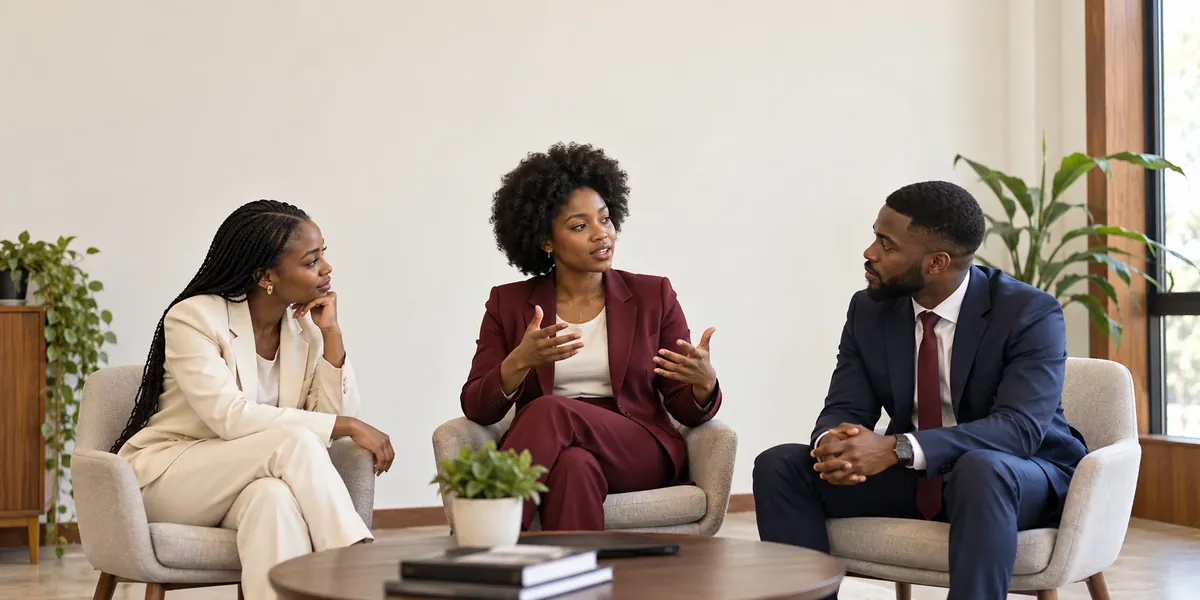
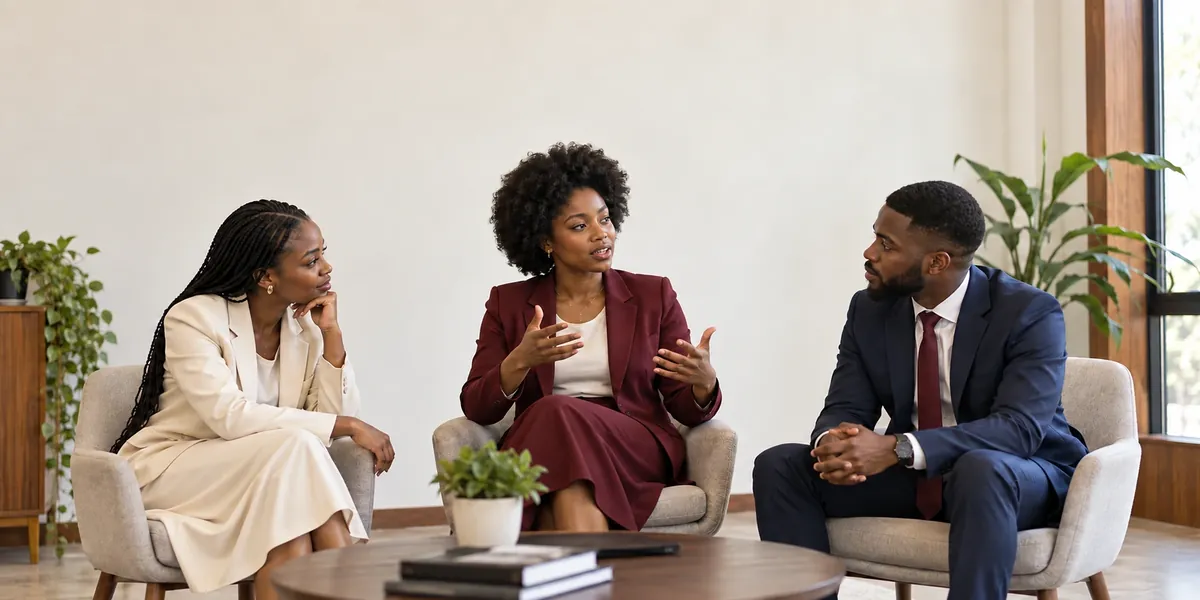
Dress the women in five supporting photos in skirts
The owner asked for the women in the site's photographs to wear skirts
instead of trousers, with nothing added on their heads. The five photos
that showed trousers (Vision & Mission, the homepage About preview,
Journey stage 06, and the Programme boot camp and mentorship cards) were
edited with Codex's image tool rather than regenerated, so the people,
poses, framing and light stay as reviewed. The other ten show women only
from the waist up.

- design/imagery/2026-10-01/: the edited masters, their prompts and
  records (each naming the master it edited) and a before/after sheet.
  The masters they replace stay in their own batches.
- scripts/imagery-assets.py builds the five from the edits under the
  same names and sizes, so no code, alt text, focus or layout changes.
  All fifteen site files rebuild byte-identical.
- IMAGERY §7 records the review and the browser check; §1, 04, AGENTS
  and D-57 make skirts or dresses the rule for new photos; task 10.7.

diff --git a/scripts/imagery-assets.py b/scripts/imagery-assets.py
@@ -18,27 +18,28 @@ from PIL import Image
 ROOT = Path(__file__).resolve().parent.parent
 FIRST = ROOT / 'design' / 'imagery' / '2026-09-29' / 'masters'  # the original nine
 SECOND = ROOT / 'design' / 'imagery' / '2026-09-30' / 'masters'  # homepage previews and /programme cards
+THIRD = ROOT / 'design' / 'imagery' / '2026-10-01' / 'masters'  # five of the above, edited: skirts instead of trousers
 ASSETS = ROOT / 'src' / 'assets'
 QUALITY = 80
 
 # master -> (output under src/assets, longest edge in px)
 IMAGES = {
-    FIRST / 'vision.webp': ('landing/vision-portrait.webp', 1200),
+    THIRD / 'vision-skirts.webp': ('landing/vision-portrait.webp', 1200),
     FIRST / 'doctrine.webp': ('landing/doctrine-study-group.webp', 1200),
     FIRST / 'journey-01-apply.webp': ('landing/journey-01-apply.webp', 1200),
     FIRST / 'journey-02-virtual-training.webp': ('landing/journey-02-virtual-training.webp', 1200),
     FIRST / 'journey-03-merit-selection.webp': ('landing/journey-03-merit-selection.webp', 1200),
     FIRST / 'journey-04-boot-camp.webp': ('landing/journey-04-boot-camp.webp', 1200),
     FIRST / 'journey-05-mentorship.webp': ('landing/journey-05-mentorship.webp', 1200),
-    FIRST / 'journey-06-community.webp': ('landing/journey-06-community.webp', 1200),
+    THIRD / 'journey-community-skirts.webp': ('landing/journey-06-community.webp', 1200),
     # A circular cut-out with transparent corners, as the success page expects (up to 443 px wide).
     FIRST / 'success-portrait.webp': ('success/student-portrait.webp', 872),
-    SECOND / 'home-about.webp': ('landing/home-about.webp', 1200),
+    THIRD / 'home-about-skirts.webp': ('landing/home-about.webp', 1200),
     SECOND / 'home-programme.webp': ('landing/home-programme.webp', 1200),
     SECOND / 'programme-virtual.webp': ('landing/programme-virtual.webp', 1200),
     SECOND / 'programme-merit.webp': ('landing/programme-merit.webp', 1200),
-    SECOND / 'programme-bootcamp.webp': ('landing/programme-bootcamp.webp', 1200),
-    SECOND / 'programme-community.webp': ('landing/programme-community.webp', 1200),
+    THIRD / 'programme-bootcamp-skirts.webp': ('landing/programme-bootcamp.webp', 1200),
+    THIRD / 'programme-community-skirts.webp': ('landing/programme-community.webp', 1200),
 }
 PROTECTED = ('landing/hero-', 'landing/blueprint-', 'brand/')
 

diff --git a/docs/IMAGERY.md b/docs/IMAGERY.md
@@ -1,7 +1,7 @@
 # Imagery: policy, records and sources
 
-**Last updated:** 2026-09-30
-**Status:** The supporting photographs are **AI-generated** (the owner's decision of 2026-09-29, which replaces the earlier rule that only permission-cleared RCCG NYAYA photos could be used). Fifteen are in the site, one per placement: the original nine, and six added on 2026-09-30 so that no photo appears in two places (§6). The homepage hero, the brand artwork and the Biblical Blueprint paintings are unchanged.
+**Last updated:** 2026-10-01
+**Status:** The supporting photographs are **AI-generated** (the owner's decision of 2026-09-29, which replaces the earlier rule that only permission-cleared RCCG NYAYA photos could be used). Fifteen are in the site, one per placement: the original nine, and six added on 2026-09-30 so that no photo appears in two places (§6). On 2026-10-01 five of them were edited so that the women wear skirts instead of trousers (§7). The homepage hero, the brand artwork and the Biblical Blueprint paintings are unchanged.
 
 Related: [04 §7 Imagery](04-UI-UX-Design-Brief.md#7-imagery) · [06 Phase 10](06-Implementation-Plan.md#phase-10-supporting-imagery-done-2026-09-29) · [`scripts/imagery-assets.py`](../scripts/imagery-assets.py) · [`design/imagery/2026-09-29/prompts.json`](../design/imagery/2026-09-29/prompts.json)
 
@@ -15,6 +15,7 @@ Related: [04 §7 Imagery](04-UI-UX-Design-Brief.md#7-imagery) · [06 Phase 10](0
 - **Supporting photographs may be AI-generated**, photorealistic images:
   - fictional, clearly adult Nigerian young adults (about 18–30), with the natural diversity of Nigerian faces and a range of brown and dark skin tones, never one uniform look; no real or recognisable people and no public figures;
   - modest, well-fitted professional or smart-casual clothing (opaque fabrics, comfortable coverage), varied rather than uniforms; brand colours as accents, never as a skin grade;
+  - women in skirts or dresses that cover the knee, not trousers (the owner's request of 2026-10-01: §7);
   - contemporary Nigerian learning, professional and community settings; soft believable light; visible skin texture;
   - no readable text, logos, signage, invented RCCG branding, certificates or grades; screens face away.
 - **Never present a generated image as real.** Alt text describes the visible scene only. No captions such as "Our previous cohort" or "RCCG participants at the boot camp".
@@ -27,27 +28,27 @@ Related: [04 §7 Imagery](04-UI-UX-Design-Brief.md#7-imagery) · [06 Phase 10](0
 
 | File (`src/assets/…`) | Used on | Shows | Source |
 |---|---|---|---|
-| `landing/vision-portrait.webp` | `/about` Vision & Mission | Three young professionals planning around a laptop and notebook | AI-generated, 2026-09-29 |
+| `landing/vision-portrait.webp` | `/about` Vision & Mission | Three young professionals planning around a laptop and notebook | AI-generated, 2026-09-29; skirts edit, 2026-10-01 (§7) |
 | `landing/doctrine-study-group.webp` | `/programme` Doctrine | Three young adults discussing open books in a library | AI-generated, 2026-09-29 |
 | `landing/journey-01-apply.webp` | `/journey` stage 01 | A young woman at a laptop at home (screen away) | AI-generated, 2026-09-29 |
 | `landing/journey-02-virtual-training.webp` | `/journey` stage 02 | A young man in headphones taking notes during an online session | AI-generated, 2026-09-29 |
 | `landing/journey-03-merit-selection.webp` | `/journey` stage 03 | Two young professionals writing in notebooks | AI-generated, 2026-09-29 |
 | `landing/journey-04-boot-camp.webp` | `/journey` stage 04 | Five young adults in a planning exercise at a workshop table | AI-generated, 2026-09-29 |
 | `landing/journey-05-mentorship.webp` | `/journey` stage 05 | A mentor with two young professionals taking notes | AI-generated, 2026-09-29 |
-| `landing/journey-06-community.webp` | `/journey` stage 06 | Young professionals talking in small groups in a courtyard | AI-generated, 2026-09-29 |
+| `landing/journey-06-community.webp` | `/journey` stage 06 | Young professionals talking in small groups in a courtyard | AI-generated, 2026-09-29; skirts edit, 2026-10-01 (§7) |
 | `success/student-portrait.webp` | `/apply/success` | A smiling young man in a suit holding a laptop (circular cut-out) | AI-generated, 2026-09-29 |
-| `landing/home-about.webp` | Homepage About preview (from 1280 px) | Two young professionals talking as they walk through a courtyard | AI-generated, 2026-09-30 |
+| `landing/home-about.webp` | Homepage About preview (from 1280 px) | Two young professionals talking as they walk through a courtyard | AI-generated, 2026-09-30; skirts edit, 2026-10-01 (§7) |
 | `landing/home-programme.webp` | Homepage Programme preview (from 1280 px) | A young woman reading at a sunlit library desk | AI-generated, 2026-09-30 |
 | `landing/programme-virtual.webp` | `/programme` Virtual training card | A young woman in headphones at a laptop at her home desk | AI-generated, 2026-09-30 |
 | `landing/programme-merit.webp` | `/programme` Merit-based selection card | A young man with glasses writing in a notebook | AI-generated, 2026-09-30 |
-| `landing/programme-bootcamp.webp` | `/programme` Physical boot camp card | Three young professionals in a training-room discussion | AI-generated, 2026-09-30 |
-| `landing/programme-community.webp` | `/programme` Mentorship and community card | A mentor talking with two young professionals on a terrace | AI-generated, 2026-09-30 |
+| `landing/programme-bootcamp.webp` | `/programme` Physical boot camp card | Three young professionals in a training-room discussion | AI-generated, 2026-09-30; skirts edit, 2026-10-01 (§7) |
+| `landing/programme-community.webp` | `/programme` Mentorship and community card | A mentor talking with two young professionals on a terrace | AI-generated, 2026-09-30; skirts edit, 2026-10-01 (§7) |
 
 They replaced the Figma Make prototype's photos, which were generic stock-style or AI images with problems of their own: invented "Redemption City" and summit banners, invented name tags on a video call, a fake certificate and scorecard, and an Apple logo.
 
 ## 3. Workflow, crops and optimisation
 
-- **Masters:** `design/imagery/<date>/masters/*.webp` (2026-09-29: the original nine; 2026-09-30: the homepage previews and `/programme` cards), full resolution, WebP quality 92, committed. Each batch's `prompts.json` sits beside them. The generator's original PNGs are in `design/imagery/<date>/originals/` (gitignored) and in the tool's own output folder.
+- **Masters:** `design/imagery/<date>/masters/*.webp` (2026-09-29: the original nine; 2026-09-30: the homepage previews and `/programme` cards; 2026-10-01: five of those edited so that the women wear skirts, §7), full resolution, WebP quality 92, committed. Each batch's `prompts.json` sits beside them. The generator's original PNGs are in `design/imagery/<date>/originals/` (gitignored) and in the tool's own output folder.
 - **Site files:** `python3 scripts/imagery-assets.py` resizes each master to at most 1200 px on the long edge (the success portrait to 872 px, keeping its transparent circle) and writes WebP quality 80, method 6, under the existing file names, so no imports change.
 - **Crops happen in the browser** (`object-fit: cover`), with a focus (`object-position`) per slot so faces survive every crop:
 
@@ -77,8 +78,8 @@ All nine were generated on 2026-09-29 with the same tool, supplied by the owner 
 | Status | **AI-generated.** Fictional people; not RCCG participants, applicants or events |
 | Tool / model | Codex built-in image generator (`image_gen`); the tool does not name the model |
 | Created | 2026-09-29 |
-| Master | `design/imagery/2026-09-29/masters/vision.webp` (original: `exec-e2b18210-6f1e-4a39-9381-731863d8cec1.png`) |
-| Crop and optimisation | Focus `object-position: 50% 15%`. Master 1122×1402 (4:5, 157 KB). Site file 960×1200, 61 KB. Displayed as tall crops on phones and on desktop, and wide on tablets (up to 1.77:1): the focus keeps all three heads with some headroom. |
+| Master | `design/imagery/2026-10-01/masters/vision-skirts.webp`: the skirts edit (§7) of `design/imagery/2026-09-29/masters/vision.webp` (original: `exec-e2b18210-6f1e-4a39-9381-731863d8cec1.png`) |
+| Crop and optimisation | Focus `object-position: 50% 15%`. Master 1122×1402 (4:5; the edit 146 KB). Site file 960×1200, 60 KB. Displayed as tall crops on phones and on desktop, and wide on tablets (up to 1.77:1): the focus keeps all three heads with some headroom. |
 
 **Prompt:** not recorded by the generating tool (`prompts.json` has none for this image). The scene is described by the alt text above.
 
@@ -209,8 +210,8 @@ Landscape 3:2 photograph. A Nigerian female mentor aged around 45 in a modest mu
 | Status | **AI-generated.** Fictional people; not RCCG participants, applicants or events |
 | Tool / model | Codex built-in image generator (`image_gen`); the tool does not name the model |
 | Created | 2026-09-29 |
-| Master | `design/imagery/2026-09-29/masters/journey-06-community.webp` (original: `exec-f53b2171-0340-4178-9b6b-eba59bba6f4a.png`) |
-| Crop and optimisation | Focus `object-position: 50% 10%`. Master 1536×1024 (3:2, 234 KB). Site file 1200×800, 86 KB. |
+| Master | `design/imagery/2026-10-01/masters/journey-community-skirts.webp`: the skirts edit (§7) of `design/imagery/2026-09-29/masters/journey-06-community.webp` (original: `exec-f53b2171-0340-4178-9b6b-eba59bba6f4a.png`) |
+| Crop and optimisation | Focus `object-position: 50% 10%`. Master 1536×1024 (3:2; the edit 222 KB). Site file 1200×800, 84 KB. |
 
 <details><summary>Generation prompt (as recorded)</summary>
 
@@ -266,9 +267,31 @@ Six additional fictional Nigerian professional scenes were generated with the bu
 | programme-bootcamp.webp | Programme physical boot camp | Three young professionals seated together in a training-room discussion | 50% 30% |
 | programme-community.webp | Programme mentorship/community | A mentor talking with two young professionals on a garden terrace | 50% 30% |
 
+Three of them (`home-about`, `programme-bootcamp`, `programme-community`) were later edited so that the women wear skirts (§7).
+
 Existing Journey photos now appear only on Journey. Vision and Doctrine photos appear only on their dedicated pages. The existing AI disclosures continue to cover all placements. A regression check verifies that the 15 supporting-photo references are unique.
 
 **Review and browser check (2026-09-30):** all six passed the §1 review (natural hands and faces, modest varied tailoring, no readable text, logos or certificates; locs, twists, glasses and an older mentor widen the variety). In headless Chrome on a local production build at 320, 390, 600, 639, 700, 767, 768, 1280, 1440 and 1920 px, every photo appears on exactly one page, loads at full opacity, keeps every face in view and causes no overflow or layout shift. The `/programme` focus values were raised (22 to 30%) so heads keep their headroom in the widest card crops (about 3.6:1) and the boot camp badge clears the heads; at those widths the writing hands are trimmed instead. The boot camp photo is a calm seated discussion, a looser fit for a physical camp than the brief's "structured leadership workshop": a candidate for regeneration.
+
+## 7. Skirts instead of trousers (2026-10-01)
+
+The owner asked for the women in the supporting photographs to wear skirts instead of trousers, then revised the request so that nothing is added on their heads (no scarves, berets, fascinators or hats). Five photographs showed women in trousers. They were edited rather than regenerated, so the people, faces, poses, framing and light are the ones already reviewed in §5 and §6:
+
+| Site file | Placement | Change |
+|---|---|---|
+| `landing/vision-portrait.webp` | `/about` Vision & Mission | Cream trousers to a cream A-line skirt (left); dark trousers to a dark skirt (right) |
+| `landing/home-about.webp` | Homepage About preview | Burgundy trousers to a burgundy A-line midi skirt |
+| `landing/journey-06-community.webp` | `/journey` stage 06 | Navy and black trousers to navy and black midi skirts; the cream dress unchanged |
+| `landing/programme-bootcamp.webp` | `/programme` Physical boot camp card | Cream and burgundy trousers to cream and burgundy midi skirts (both women seated) |
+| `landing/programme-community.webp` | `/programme` Mentorship and community card | Navy and burgundy trousers to long navy and burgundy skirts |
+
+The other ten photographs show women only from the waist up, at desks and tables, so they are unchanged, as is the hero.
+
+- **Tool:** Codex's built-in image generator (`image_gen`; it doesn't name the model), as in §4 and §6. Each master was edited with an identity-preserving prompt: keep the faces, hairstyles, hands, poses, framing, background and light, leave the men's clothes alone, and turn only the women's trousers into opaque, modest midi or ankle-length skirts without slits that cover the knees even when seated. Generated late on 2026-09-30 (Lagos time), adopted on 2026-10-01.
+- **Records:** [`design/imagery/2026-10-01/prompts.json`](../design/imagery/2026-10-01/prompts.json) holds each prompt, the master it edited (`editOf`), the new master and the generator's original PNG (in the gitignored `originals/`). The edited masters are in `design/imagery/2026-10-01/masters/`. The masters they replace stay in their own batches, so pointing `scripts/imagery-assets.py` back at them undoes an edit. [`before-after.jpg`](../design/imagery/2026-10-01/before-after.jpg) shows each pair.
+- **Review (2026-10-01):** each edit was compared with its original at full size and pixel by pixel. The change is confined to the women's clothing below the waist. Elsewhere the pixels differ only by compression noise: in the top 45% of each frame, where the faces are, by 1.5 to 4.4 levels out of 255 on average. No headwear, text or logos were added. The skirts are opaque, without slits, and drape naturally over the chairs and in the walking pose. In three photos they run to the bottom of the frame (Vision, the About preview, Mentorship and community). In the other two they're midi length: the knees stay covered, and the lower legs show below the hem (the seated boot camp pair and the standing Journey group).
+- **Site files:** `scripts/imagery-assets.py` builds the five from the edited masters under their existing names and sizes, so imports, alt text (the scenes are unchanged), focus and layout stay as they were. Rebuilding all fifteen reproduces the committed files byte for byte. The footer's "About our images" note still holds.
+- **Browser check (2026-10-01),** on the local development server: at 1440 px, the `/about` Vision photo, the homepage About preview, the `/journey` stage 06 card and both `/programme` cards; at 390 px, `/about` and the `/programme` cards. Each edited photo loads in its slot with the same crop as before, faces keep their headroom, the boot camp badge clears the heads, and there's no horizontal overflow.
 
 ---
 

diff --git a/docs/06-Implementation-Plan.md b/docs/06-Implementation-Plan.md
@@ -25,7 +25,7 @@ Related: [01-PRD](01-PRD.md) · [02-TRD](02-TRD.md) · [03-App-Flow](03-App-Flow
 | Brand | ✅ Official lockup in every header, menu, footer and the admin area; brand palette; favicons, app icons and social card from the brand mark ([04 §2](04-UI-UX-Design-Brief.md#brand-identity)) |
 | Parish directory | ✅ Import command (16.1, dry-run tested on the RCCG list), parish search and application links (16.2), the parish question in the form (16.3, off until switched on), admin screens: Parish review, Parish directory, Reports, parish filters and panels (16.4–16.6) · ✅ the RCCG directory API as the only source (16.8, D-53): a synchronised copy of its releases, freshness checks at submission, the handover from the spreadsheet; tested against a fake of the contract · ✅ checked live read-only (full sync of release 2026.1: 50,081 parishes) · ⏳ the production key on the server · ✅ production key set and first sync done on the Droplet (release 2026.1, 50,081 parishes) · ⏳ look-alike choice (16.10, D-55) before switching the question on · ~~rollout of the spreadsheet (16.7)~~, superseded |
 | Admin interface | ✅ shadcn/ui primitives adapted to the brand under the account/admin kit; card-first **Reports and analytics** (six reports, shared filters, Recharts charts, drill-down, comparison table), kept out of public bundles (Phase 17) |
-| Photography | ✅ AI-generated supporting photographs: fifteen, one per placement, reviewed, recorded and disclosed ([IMAGERY.md](IMAGERY.md)); hero, brand artwork and Blueprint paintings unchanged |
+| Photography | ✅ AI-generated supporting photographs: fifteen, one per placement, reviewed, recorded and disclosed ([IMAGERY.md](IMAGERY.md)) · ✅ five edited so that the women wear skirts (10.7, D-57); hero, brand artwork and Blueprint paintings unchanged |
 
 ## Phases
 
@@ -161,6 +161,7 @@ First a search for authentic NYAYA photos (2026-09-26), which stalled on permiss
 | 10.4 | Written permission from NYAYA / RISE | Superseded by D-27; still an option (C13) |
 | 10.5 | AI-generated supporting photographs | Done (2026-09-29): nine photorealistic images generated by the owner with Codex's image tool (`design/imagery/2026-09-29/prompts.json`), each reviewed (all passed), masters committed, site files built by `scripts/imagery-assets.py` (WebP q80, at most 1200 px, same file names), a crop focus per slot, new alt text, and a disclosure in the footer and on the success page. Hero, brand artwork and Blueprint paintings unchanged ([IMAGERY.md](IMAGERY.md)) |
 | 10.6 | Verification | Done: every photo checked in its containers at 320, 390, 768, 1280, 1440 and 1920 px in headless Chrome, with normal and reduced motion: all load at full opacity, faces stay in every crop, no overflow, no layout shift on the marketing pages. The homepage hero is pixel-identical to `main` at 390/768/1440/1920 px. `pnpm check`. The success page's small shift (0.013 at 768 px) comes from its API-driven cards, not the images (0 with the API unavailable, as on the live site). **Not yet:** real devices |
+| 10.7 | Skirts instead of trousers in five photos (the owner's request, D-57) | Done (2026-10-01): the five photos that showed women in trousers (`vision-portrait`, `home-about`, `journey-06-community`, `programme-bootcamp`, `programme-community`) edited with Codex's image tool, keeping the people, poses and framing, with no headwear added. Edited masters and prompts in `design/imagery/2026-10-01/`; the masters they replace stay in their batches. `scripts/imagery-assets.py` builds the same file names and sizes, so no code changed. Compared with the originals (the change is confined to the clothing) and checked in the browser at 1440 and 390 px ([IMAGERY §7](IMAGERY.md#7-skirts-instead-of-trousers-2026-10-01)) |
 
 **2026-09-30 refinement:** Removed six cross-page photo reuses with six newly generated dedicated assets (two homepage previews and four Programme cards). Each supporting editorial placement now has a unique image. Generation records: `design/imagery/2026-09-30/prompts.json`; policy and placements: IMAGERY §6. Hero unchanged. Validation: `pnpm check`; all 15 supporting image files have distinct SHA-256 hashes, and `imagery.test.ts` checks that no placement shares a photo and that the card photos' alt text claims no real participants or events. Browser check (headless Chrome, local production build, 320–1920 px plus 600/639/700/767 px where the `/programme` cards are widest): each photo appears on exactly one page, loads fully, keeps every face in view, with no overflow or layout shift. The `/programme` focus values were raised to 22–30% for headroom in those crops and to keep the boot camp badge clear of heads. `PHASE_ART` moved to `src/components/landing/programmePhotos.ts` (a page module shouldn't export data), and `scripts/imagery-assets.py` builds both batches from one table (outputs byte-identical).
 
@@ -403,6 +404,7 @@ flowchart LR
 | D-54 | 2026-09-30 | **Gender: Male and Female only.** "Prefer not to say" is no longer offered or accepted: the form, the API and a database trigger (0011) refuse it. None of the live site's applications (counted 2026-09-30) chose it; applications saved with it elsewhere keep it (the enum value stays and nothing is reclassified: those applicants chose neither), labelled "Prefer not to say (earlier form)" and still listed, counted, exported and workable by staff. A trigger rather than a CHECK constraint: even one added `NOT VALID` is checked on every later update of those rows, so status changes, publication and corrections would fail. A draft saved with the old answer asks for the gender again | Decided (brief) |
 | D-55 | 2026-09-30 | **Look-alike parishes are one choice.** Same-named parishes in one unit (1,500 groups in the RCCG directory API) have separate codes but nothing to tell them apart.<br>**The form:** each group is offered once, as its first parish by code, saying how many it stands for.<br>**The application:** it links that parish, so the unit-level counts are right. It keeps the whole group in its snapshot and asks staff, in Parish review, which parish it is.<br>**Never merged by name** (D-53). The registry team is asked to merge true duplicates or add zone and area | Decided (owner) |
 | D-56 | 2026-10-01 | **Footer credit to RCCG National Young Adults and Youth Affairs** (the owner's request): the RCCG Young Adults & Youths emblem with "An initiative of RCCG National Young Adults and Youth Affairs" in every marketing footer. The emblem is used as supplied, only its white page made transparent (never redrawn or recoloured; its own whites kept), built by a script from a committed master like the brand lockups. No link until an official URL is confirmed | Decided (owner) |
+| D-57 | 2026-10-01 | **Women in the supporting photographs wear skirts or dresses, not trousers** (the owner's request). The five photos that showed trousers were edited rather than regenerated, keeping the same people, poses and framing: opaque skirts without slits that cover the knee, and no headwear added (the owner's revision). New generated photos follow the same rule (IMAGERY §1). The masters they replace stay in the repository | Decided (owner) |
 
 ## Doc maintenance
 

diff --git a/AGENTS.md b/AGENTS.md
@@ -31,7 +31,7 @@ Expression-of-interest site: React SPA (Vite, installable PWA with a service wor
 - Motion (docs/04 §6): use the tokens in `src/index.css` `:root`, the `.enter-*` / `.form-enter` classes with `enterStep()`/`enterAfter()`, and `data-reveal` for scroll reveals (`data-reveal-group` + `data-reveal-at` for a section's timeline, `data-reveal-with` for companions, `data-depth` for a photo settling inside its frame). Every entrance must end on the element's own resting style: motion never changes the settled UI. Animate only `opacity`, `translate`, `scale`; put anything that hides or moves content inside `@media (prefers-reduced-motion: no-preference)`; never delay forms, consent or errors. Containers that clip decoration but hold focusable content use `.clip-overflow`, not `overflow-hidden`.
 - The homepage hero is the exception to the CSS system: a GSAP timeline in `src/lib/heroMotion.ts` (timings in its `HERO_*` tables, tested). Its moves clear their inline styles as they land, so the settled hero equals the page without motion. An element is animated by GSAP **or** CSS, never both: the hero's CSS extras (glow breathing, desktop scroll drift) run on inner elements. Those two are the only sanctioned loop and scroll-linked motion; a new one needs the same care (pause off-screen, none with reduced motion, attach scroll animations only while scrolled).
 - Brand: the logo is the supplied artwork in `design/brand/` (palette, rationale and usage rules in its README). Show it with `BrandLockup` (`on="dark"`: cream lettering, `on="light"`: burgundy) and never redraw, recolour or re-type it. `python3 scripts/brand-assets.py` (Pillow) rebuilds the committed lockups, favicons and app icons from the masters. The `brand`, `cream` and `gold` tokens are the brand palette: use them or their `rgba()` tints, not new near-miss hex values. The footer credit's RCCG Young Adults & Youths emblem is the logo as supplied in `design/brand/partners/`, its white page made transparent by `python3 scripts/partner-logo.py` (needs numpy): never recolour or redraw it, and keep `RCCG_YAYA_EMBLEM` (`src/components/marketing/emblem.ts`) in step with the file (`emblem.test.ts`).
-- Photography: never change the homepage hero images. Each supporting editorial placement must use a unique photograph; do not reuse photos across pages or sections (responsive renditions of the same placement are fine; `src/components/landing/imagery.test.ts` checks). Supporting photos are AI-generated (the owner's decision, 2026-09-29): follow `docs/IMAGERY.md` §1 (fictional Nigerian young adults, modest clothing; no text, logos or invented RCCG branding), keep masters in `design/imagery/<date>/masters` and build the site files with `python3 scripts/imagery-assets.py`, record each image (prompt, tool, date, placement) in `docs/IMAGERY.md` (§4, or the batch's `prompts.json` plus §6), keep the footer's "About our images" note accurate, and never caption or describe them as real participants or events. Crops use a per-slot `object-position` focus (`JOURNEY_ART` in `JourneySection.tsx`, `PHASE_ART` in `programmePhotos.ts`, classes in `VisionMission`/`Previews`/`Doctrine`). The brand artwork and the Biblical Blueprint paintings are not replaced. An authentic NYAYA photo may still replace one, with written permission recorded; never crop out watermarks.
+- Photography: never change the homepage hero images. Each supporting editorial placement must use a unique photograph; do not reuse photos across pages or sections (responsive renditions of the same placement are fine; `src/components/landing/imagery.test.ts` checks). Supporting photos are AI-generated (the owner's decision, 2026-09-29): follow `docs/IMAGERY.md` §1 (fictional Nigerian young adults, modest clothing, the women in skirts or dresses rather than trousers; no text, logos or invented RCCG branding), keep masters in `design/imagery/<date>/masters` and build the site files with `python3 scripts/imagery-assets.py`, record each image (prompt, tool, date, placement) in `docs/IMAGERY.md` (§4, or the batch's `prompts.json` plus §6), keep the footer's "About our images" note accurate, and never caption or describe them as real participants or events. Crops use a per-slot `object-position` focus (`JOURNEY_ART` in `JourneySection.tsx`, `PHASE_ART` in `programmePhotos.ts`, classes in `VisionMission`/`Previews`/`Doctrine`). The brand artwork and the Biblical Blueprint paintings are not replaced. An authentic NYAYA photo may still replace one, with written permission recorded; never crop out watermarks.
 - Never log request bodies (they contain personal data), push subscriptions (endpoints, keys) or notification content. `server/push.test.ts` checks the logs. Log errors through the Fastify logger (its `err` serializer is `errorForLog`, which drops database `detail`, `where`, queries and parameters) or as codes, never an error's message from SMTP or the database next to personal data.
 - **Security patterns (2026-09-30 audit; regression tests are marked "(security audit)"):**
   - Attempt limits are counted **before** the check, in one atomic `UPDATE … RETURNING` (`takeAttempt` / the MFA reservation in `server/auth/staff-routes.ts`): never read a counter, do slow work, then write it back.

diff --git a/docs/04-UI-UX-Design-Brief.md b/docs/04-UI-UX-Design-Brief.md
@@ -292,7 +292,7 @@ Production build, headless Chrome (60 Hz), tools as for the baseline recorded th
 - 21 photos/illustrations converted to **WebP** (max 1200 px): total image weight 11.6 MB → **1.3 MB**. Files have meaningful names (`src/assets/landing/journey-04-boot-camp.webp`) and are content-hashed at build.
 - Content images have **descriptive alt text** (e.g. "Painting of Nehemiah directing the rebuilding of Jerusalem's walls"). Decorative glows, rings, route lines and arrows use `alt=""`/`aria-hidden`.
 - Below-the-fold images use `loading="lazy"`; the hero image has `fetchpriority="high"`.
-- **Supporting photographs are AI-generated** (the owner's decision, 2026-09-29; policy, prompts and records: [IMAGERY.md](IMAGERY.md)): fictional Nigerian young adults in modest professional clothing, editorial daylight, a warm neutral grade with burgundy, cream, navy and charcoal as accents rather than a skin grade. They replaced the prototype's stock-style images, which showed invented event banners, name tags, a fake certificate and a laptop logo. Each photo has one placement only (no photo repeats across sections or pages), and each slot sets an `object-position` focus so faces survive its crops at every breakpoint. The footer ("About our images") and the success page say which photographs are AI-generated; alt text describes the scene only. The homepage hero, the brand artwork and the Biblical Blueprint paintings (artistic interpretations) are unchanged.
+- **Supporting photographs are AI-generated** (the owner's decision, 2026-09-29; policy, prompts and records: [IMAGERY.md](IMAGERY.md)): fictional Nigerian young adults in modest professional clothing (the women in skirts or dresses, not trousers: D-57), editorial daylight, a warm neutral grade with burgundy, cream, navy and charcoal as accents rather than a skin grade. They replaced the prototype's stock-style images, which showed invented event banners, name tags, a fake certificate and a laptop logo. Each photo has one placement only (no photo repeats across sections or pages), and each slot sets an `object-position` focus so faces survive its crops at every breakpoint. The footer ("About our images") and the success page say which photographs are AI-generated; alt text describes the scene only. The homepage hero, the brand artwork and the Biblical Blueprint paintings (artistic interpretations) are unchanged.
 - Social card: `public/og-image.jpg` (1200×630): the settled desktop hero with its header (the lockup), captured from the production build at 1440 px (2× pixel density, rows 16–772) on 2026-09-28. It replaced the Figma crop, which still carried the prototype's headline.
 - **Favicons and app icons**, resized from the brand mark by `scripts/brand-assets.py` (§2):
   - `favicon.ico` (16/32/48) and `favicon-32.png`: the mark on its own.
